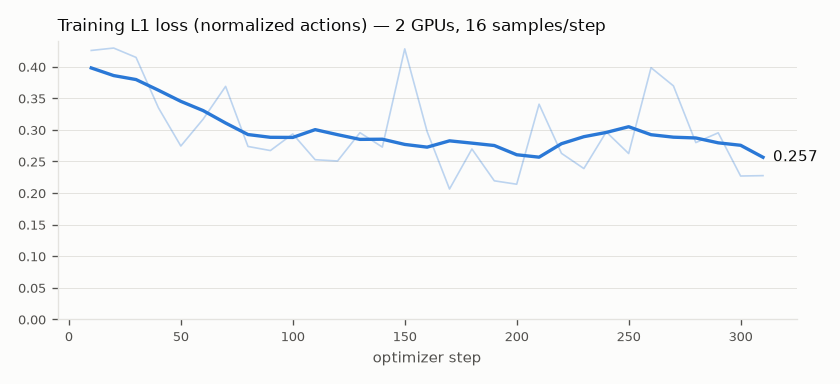
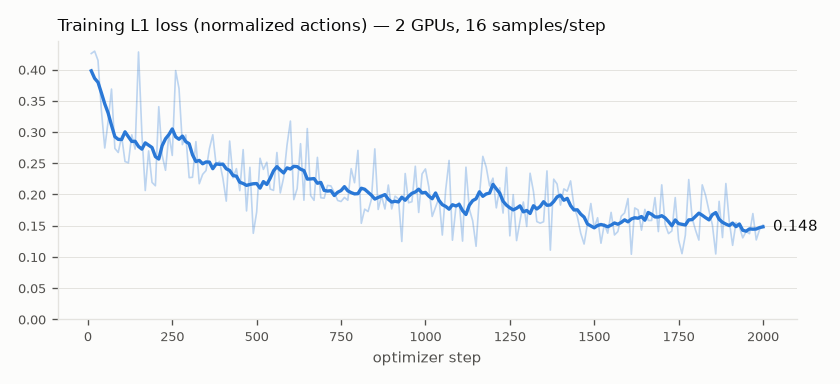
README: final loss curve for the 2k-step run
Claude-Session: https://claude.ai/code/session_018zpK4bNEZoNiMWTSJ9quHK

diff --git a/README.md b/README.md
@@ -43,6 +43,9 @@ where the gripper is closed:
   <img src="media/train_loss.png" width="700" alt="Training L1 loss curve">
 </p>
 
+**First run (2,000 steps ≈ 0.12 epochs, ~3.7 h):** the 250-step average L1 loss fell from 0.300 to 0.154.
+Checkpoints were saved every 500 steps.
+
 Trained on 2× RTX A2000 (6 GB each) with DDP: batch 1 per GPU × 8 accumulation steps = 16 samples per step, AdamW,
 lr 2e-4 with cosine decay, light image augmentation (random crop + brightness/contrast jitter). Peak memory is
 ~4.3 GB per GPU. Gradient checkpointing is on, vocab logits are never computed, and the frozen 620 MB token-embedding
